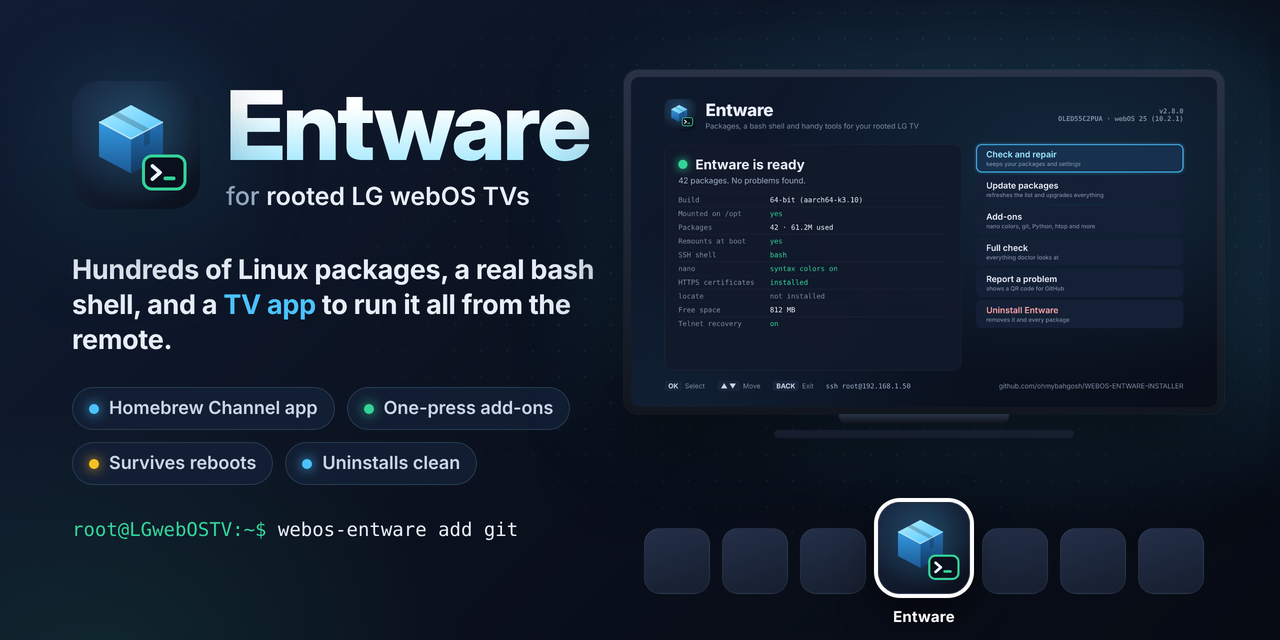
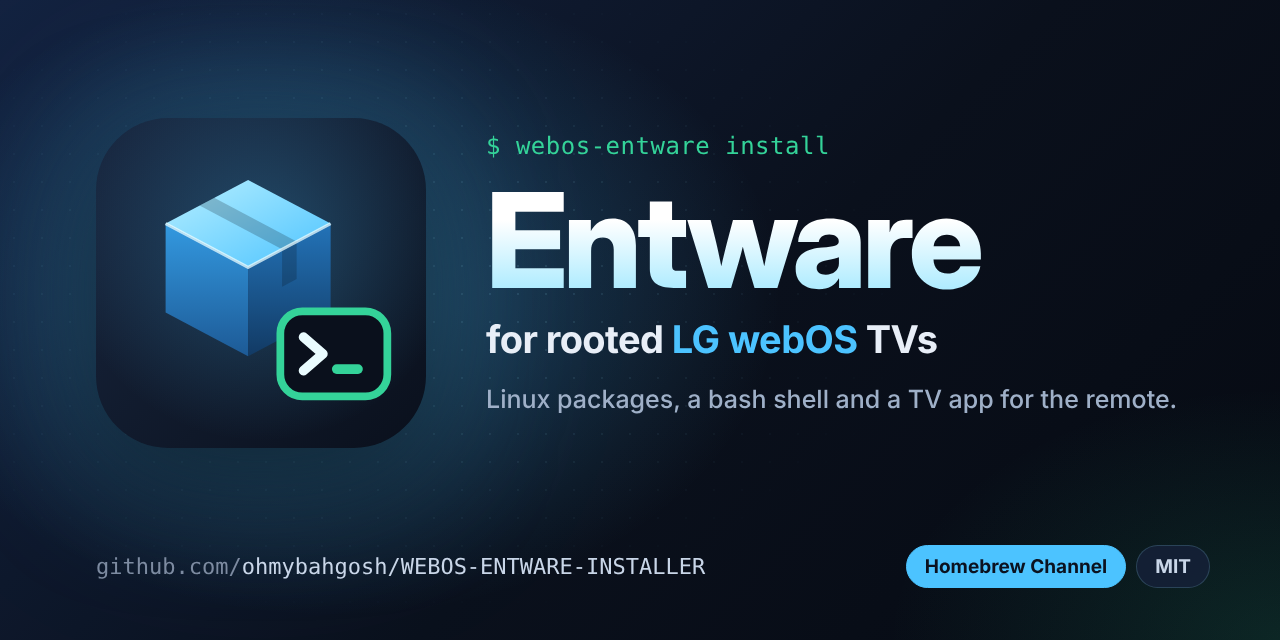
README: terminal shots for each section, and a social preview
- Terminal shots for Install, doctor, the ent helper, webOS helpers,
  nano, locate and Add-ons, drawn from the installer's real output in
  the test sandbox with a C2's details
- images/social-preview.png redone for link cards: big type, the icon,
  and the repo name (1280x640)
- The locate section shows webos-entware add locate

Fixed, found making the shots:
- ent search printed a stray dash (htop - - 3.4.1-1).  It now prints
  name - version - description, and a test checks it
- Adding locate said it was ready twice

diff --git a/README.md b/README.md
@@ -165,6 +165,8 @@ Pick **1) Install or repair Entware**. The installer shows your TV details and t
 
 When it finishes, **disconnect and SSH in again** to get the bash shell.
 
+<p align="center"><img src="images/cli-install.png" width="760" alt="An install over SSH: the TV check, the recommended 64-bit build, each step, and Everything looks right"></p>
+
 ### Skip the menu
 
 ```sh
@@ -251,6 +253,8 @@ After the first install, the installer is saved on the TV as the `webos-entware`
 
 `doctor` shows your model, webOS version, kernel, Homebrew Channel and telnet status, the installed and recommended builds, whether `/opt` is mounted, whether `opkg` and bash run, and whether the boot script and shell files are in place. It ends with "Everything looks right" or a list of problems, each with its fix.
 
+<p align="center"><img src="images/cli-doctor.png" width="760" alt="webos-entware doctor on an LG C2 with webOS 25: everything checks out"></p>
+
 The installer also writes `/opt/etc/webos-entware/install.info` with the installer version, date, model, webOS version, firmware, kernel and build. It's handy to paste into a bug report.
 
 Install, repair, uninstall, locate and upgrade take a lock, so two of them can never run at once, from SSH or the TV app.  If one is running, the other says so and stops.  A lock left by a task that was stopped is cleared on its own.
@@ -281,6 +285,8 @@ If you piped the installer into sh, there's no file to copy, so it saves the pub
 | `ent help` | Show all `ent` commands |
 
 Anything else is passed straight to `opkg`, so `ent list-installed` works too.
+
+<p align="center"><img src="images/cli-ent.png" width="760" alt="ent search and ent owns in the bash shell"></p>
 
 **Tab completion** (in the bash shell): press Tab after `ent`, `opkg` or `webos-entware` to complete commands. After `install`, `info` or `search` it completes available package names. After `remove`, `files` or `upgrade` it completes installed ones.
 
@@ -322,6 +328,8 @@ Small commands for working with the TV from SSH. They use webOS's own services t
 
 Tab after `launch`, `close` or `applog` completes app IDs. `webos-tv help` lists the commands, and each one also works as `webos-tv <command>`. If a package already installed a command with one of these names, the installer leaves it alone and you can use `webos-tv <command>` instead.
 
+<p align="center"><img src="images/cli-helpers.png" width="760" alt="webos-tv help, apps listing the TV's apps, and toast"></p>
+
 `doctor` also shows the free space on the data partition, which webOS shares with Entware, and flags it below 50 MB.
 
 ---
@@ -331,6 +339,8 @@ Tab after `launch`, `close` or `applog` completes app IDs. `webos-tv help` lists
 nano-full ships syntax colors for over 130 languages, but its stock `/opt/etc/nanorc` has every line commented out, so nano starts plain. The installer writes a nanorc that turns on all of them, with line numbers, the cursor position on the status bar, and reopening files where you left off. Common extras (mouse, autoindent, tab size, soft wrap) are listed in the file, commented out.
 
 It only replaces a stock nanorc or one it wrote itself (marked on its first line), so a nanorc you've edited is kept. Settings in your own `~/.nanorc` are read afterwards and win. Installing nano with `ent install nano-full` sets it up too.
+
+<p align="center"><img src="images/cli-nano.png" width="760" alt="nano editing a shell script with syntax colors and line numbers"></p>
 
 ---
 
@@ -348,7 +358,8 @@ Whenever OpenSSL or Python is installed, through `ent install` or found during a
 
 ```sh
 ent install mlocate          # installs it and sets it up
-webos-entware locate         # sets it up (installs mlocate if needed)
+webos-entware add locate     # sets it up (installs mlocate if needed)
+webos-entware locate         # the same
 sh webos-entware-installer.sh install --with-locate
 ```
 
@@ -361,6 +372,8 @@ This adds:
 | `/opt/etc/cron.hourly/updatedb` | Refreshes the database every hour, using Entware's `cron` (installed if needed and started by the boot script) |
 
 A full refresh takes a couple of seconds. Repairing Entware sets locate up again if mlocate is installed. It rewrites `updatedb.conf` only while the file still has the installer's first line, so delete that line to keep your own settings. Scripts should call `updatedb-webos`, since the `updatedb` alias only exists in the interactive shell. `doctor` shows whether locate is ready and how old the database is.
+
+<p align="center"><img src="images/cli-locate.png" width="760" alt="webos-entware add locate setting locate up, then locate nanorc finding files"></p>
 
 ---
 
@@ -389,6 +402,8 @@ webos-entware remove git     # and take it off again
 | `jq` | jq | Read and filter JSON, like `luna-send` replies |
 
 Any other Entware package installs with `ent install <package>` as usual.  The list is fixed in the installer, so the app can only ever ask for one of these by name.
+
+<p align="center"><img src="images/cli-addons.png" width="760" alt="webos-entware addons listing every add-on and whether it is installed, then adding tmux"></p>
 
 ---
 

diff --git a/CHANGELOG.md b/CHANGELOG.md
@@ -2,6 +2,13 @@
 
 All notable changes to the WebOS Entware installer.  Versions follow [semantic versioning](https://semver.org/).
 
+## Unreleased
+
+### Fixed
+
+- `ent search` printed a stray dash between the package name and its version.
+- Adding locate said it was ready twice.
+
 ## [2.8.0] - 2026-11-02
 
 ### Added
